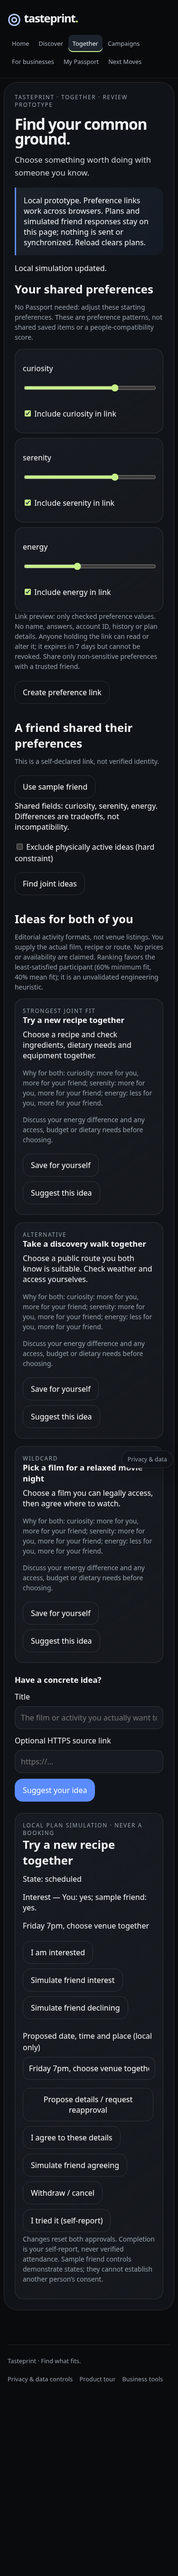
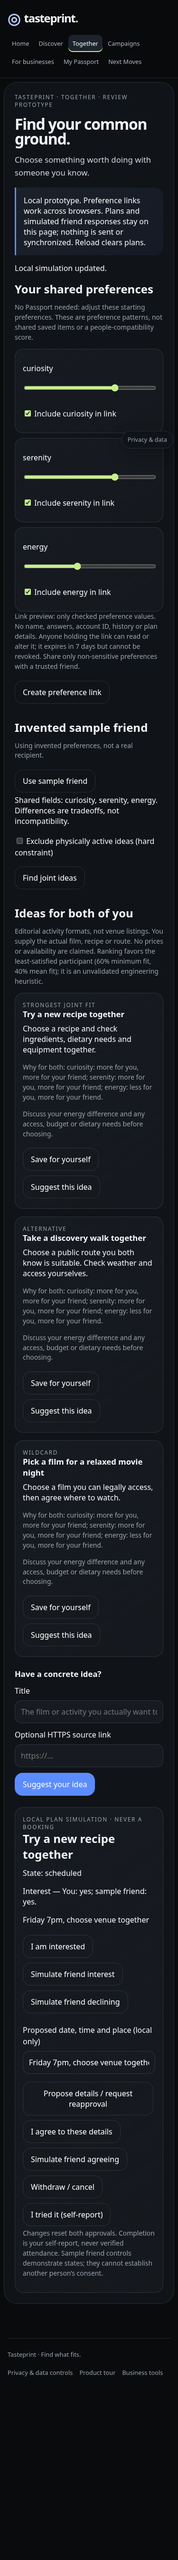
Keep sample participant labeling explicit throughout the demo

Changed region(s): [[0.0587, 0.3735, 0.8507, 0.9337], [0.088, 0.0311, 0.88, 0.3423], [0.7627, 0.8714, 0.8213, 0.9025]]

diff --git a/together.js b/together.js
@@ -8,6 +8,7 @@ if(params.get('together')==='1'){
  const fragment=new URLSearchParams(location.hash.slice(1));
  let friend=fragment.has('taste')?decodeShare(fragment.get('taste')):null;
  let message=fragment.has('taste')&&!friend?'This preference link is invalid or expired. Ask your friend for a new one.':'';
+ let sampleFriend=false;
  let shortlist=false,excludeActive=false,plan=null,saved=new Set();
  const button=(action,label)=>`<button class="secondary" data-social="${action}">${label}</button>`;
  function render(){
@@ -16,8 +17,8 @@ if(params.get('together')==='1'){
  <div class="grid-3">${dimensions.map(k=>`<div class="card"><label>${k}<input type="range" min="0" max="100" value="${own[k]??50}" data-preference="${k}" aria-label="Your ${k}"></label><label><input type="checkbox" data-share="${k}" checked> Include ${k} in link</label></div>`).join('')}</div>
  <p class="small">Link preview: only checked preference values. No name, answers, account ID, history or plan details. Anyone holding the link can read or alter it; it expires in 7 days but cannot be revoked. Share only non-sensitive preferences with a trusted friend.</p>
  ${button('share','Create preference link')}<label id="social-link-wrap" hidden>Copy this link<input id="social-link" readonly></label>
- <h2 style="margin-top:28px">${friend?'A friend shared their preferences':'Try it before inviting a friend'}</h2>
- <p class="small">${friend?'This is a self-declared link, not verified identity.':'Sample friend uses invented preferences. No real social data.'}</p>${button('sample','Use sample friend')}
+ <h2 style="margin-top:28px">${sampleFriend?'Invented sample friend':friend?'A friend shared their preferences':'Try it before inviting a friend'}</h2>
+ <p class="small">${sampleFriend?'Using invented preferences, not a real recipient.':friend?'This is a self-declared link, not verified identity.':'Sample friend uses invented preferences. No real social data.'}</p>${button('sample','Use sample friend')}
  ${friend?`<p>Shared fields: ${esc(Object.keys(friend).join(', '))}. Differences are tradeoffs, not incompatibility.</p><label><input type="checkbox" id="exclude-active" ${excludeActive?'checked':''}> Exclude physically active ideas (hard constraint)</label>${button('compare','Find joint ideas')}`:''}
  ${shortlist?`<h2 style="margin-top:28px">Ideas for both of you</h2><p class="small">Editorial activity formats, not venue listings. You supply the actual film, recipe or route. No prices or availability are claimed. Ranking favors the least-satisfied participant (60% minimum fit, 40% mean fit); it is an unvalidated engineering heuristic.</p><div class="social-ideas">${rankTogether(own,friend,{excludeActive}).map((item,i)=>`<article class="card"><div class="eyebrow">${['Strongest joint fit','Alternative','Wildcard'][i]}</div><h3>${item.title}</h3><p>${item.copy}</p><p class="small">Why for both: ${esc(item.reason)}.</p><p class="small">Discuss your ${item.tradeoff} difference and any access, budget or dietary needs before choosing.</p>${button('save:'+item.id,saved.has(item.id)?'Saved on this page':'Save for yourself')} ${button('suggest:'+item.id,'Suggest this idea')}</article>`).join('')}</div>`:''}
  <form id="custom-idea"><h3 style="margin-top:24px">Have a concrete idea?</h3><label>Title<input name="title" required maxlength="100" placeholder="The film or activity you actually want to try"></label><label>Optional HTTPS source link<input name="url" type="url" placeholder="https://…"></label><button type="submit" class="primary">Suggest your idea</button></form>
@@ -36,12 +37,12 @@ if(params.get('together')==='1'){
   const u=new URL(location.href);u.search='?together=1';u.hash=new URLSearchParams({taste:encodeShare(projection(own,keys))}).toString();
   app.querySelector('#social-link-wrap').hidden=false;app.querySelector('#social-link').value=u.href;app.querySelector('#social-link').select();return;
  }
- if(action==='sample'){friend={curiosity:85,serenity:55,energy:65};message='Using an invented sample friend.';shortlist=false;}
+ if(action==='sample'){sampleFriend=true;friend={curiosity:85,serenity:55,energy:65};message='Using an invented sample friend.';shortlist=false;}
  else if(action==='compare'){shortlist=true;message='Only the shared fields affect these suggestions.';}
  else if(action.startsWith('save:')){saved.add(action.split(':')[1]);message='Saved locally on this page. This is not a shared invitation.';}
  else if(action.startsWith('suggest:')){const item=rankTogether(own,friend,{excludeActive}).find(x=>x.id===action.split(':')[1]);plan={title:item.title,state:'proposed',interest:{}};message='Local proposal created. No invitation has been sent.';}
  else {const [actor,event]=action.split(':');plan=transition(plan,actor,event);message='Local simulation updated.';}
  }catch(err){message=err.message;}render();}
- window.addEventListener('hashchange',()=>{const incoming=new URLSearchParams(location.hash.slice(1));friend=incoming.has('taste')?decodeShare(incoming.get('taste')):null;shortlist=false;plan=null;message=incoming.has('taste')&&!friend?'This preference link is invalid or expired. Ask your friend for a new one.':'';render();});
+ window.addEventListener('hashchange',()=>{const incoming=new URLSearchParams(location.hash.slice(1));sampleFriend=false;friend=incoming.has('taste')?decodeShare(incoming.get('taste')):null;shortlist=false;plan=null;message=incoming.has('taste')&&!friend?'This preference link is invalid or expired. Ask your friend for a new one.':'';render();});
  render();
 }

diff --git a/scripts/check-together-browser.js b/scripts/check-together-browser.js
@@ -9,7 +9,7 @@ const recipient=await browser.newContext();const other=await recipient.newPage()
 await page.getByRole('button',{name:'Use sample friend'}).click();await page.getByRole('button',{name:'Find joint ideas'}).click();await page.getByRole('button',{name:'Suggest this idea'}).first().click();
 await page.getByRole('button',{name:'I am interested',exact:true}).click();await page.getByRole('button',{name:'Simulate friend interest',exact:true}).click();
 await page.getByLabel('Proposed date, time and place (local only)').fill('Friday 7pm, choose venue together');await page.getByRole('button',{name:'Propose details / request reapproval'}).click();await page.getByRole('button',{name:'I agree to these details',exact:true}).click();await page.getByRole('button',{name:'Simulate friend agreeing',exact:true}).click();assert.match(await page.locator('#shared-plan').innerText(),/State: scheduled/);
-for(const width of [1280,375]){await page.setViewportSize({width,height:950});assert.ok(await page.evaluate(()=>document.documentElement.scrollWidth<=innerWidth));if(process.env.TASTEPRINT_SCREENSHOT_DIR)await page.screenshot({path:process.env.TASTEPRINT_SCREENSHOT_DIR+`/together-${width}.png`,fullPage:true});}
+for(const width of [1280,375]){await page.setViewportSize({width,height:950});assert.ok(await page.evaluate(()=>document.documentElement.scrollWidth<=innerWidth));await page.evaluate(()=>{document.activeElement?.blur();scrollTo(0,0)});if(process.env.TASTEPRINT_SCREENSHOT_DIR)await page.screenshot({path:process.env.TASTEPRINT_SCREENSHOT_DIR+`/together-${width}.png`,fullPage:true});}
 await page.getByRole('button',{name:'Withdraw / cancel'}).click();assert.match(await page.locator('#shared-plan').innerText(),/State: cancelled/);
 assert.equal(await page.locator('#shared-plan script').count(),0);
 await page.getByLabel('Title',{exact:true}).fill('<img src=x onerror=alert(1)>');await page.getByLabel('Optional HTTPS source link').fill('https://example.com/idea');await page.getByRole('button',{name:'Suggest your idea',exact:true}).click();assert.equal(await page.locator('#shared-plan img').count(),0);assert.match(await page.locator('#shared-plan h2').innerText(),/<img/);
